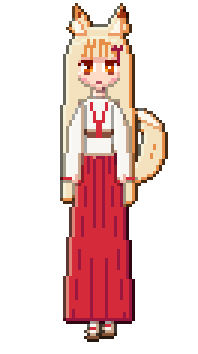
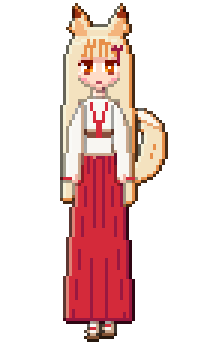
Kohaku's fox ears: dark tips on both ears, warm inner ears, bow on her hair
- Both fox ears get the same dark tip; the light used to leave the left
  tip almost hair-coloured
- The inner ear is a warm peach so the ears read against her pale hair
- In profile the bow at the back of her head sits on the hair instead of
  floating beside it
- Portraits of heroines with animal ears are framed a little higher so
  the ears show

Claude-Session: https://claude.ai/code/session_01G7wJVgNREwV81C7tq9bPH5

Changed region(s): [[0.5455, 0.0311, 0.6364, 0.1243], [0.3636, 0.0, 0.4545, 0.1243]]

diff --git a/index.html b/index.html
@@ -1055,7 +1055,7 @@ function renderGirl(L,p,o){
       else part(97,colC,x=>{x.beginPath();x.ellipse(hx+R*.05,hy-R*1.12,R*.22,R*.5,1.15,0,7);x.fill();for(let k=0;k<4;k++)ell(x,hx-R*.3+k*R*.2,hy-R*1.2-k*R*.04,R*.1,R*.1)},{band:1})}
     if(hw==='idol'){const st=(cx,cy,r)=>x=>{x.beginPath();for(let k=0;k<10;k++){const a=-Math.PI/2+k*Math.PI/5,rr=k%2?r*.45:r;k?x.lineTo(cx+Math.cos(a)*rr,cy+Math.sin(a)*rr):x.moveTo(cx+Math.cos(a)*rr,cy+Math.sin(a)*rr)}x.closePath();x.fill()};
       const cx=back?hx-R*.6:side?hx+R*.1:hx+R*.62;part(97,p.acc,st(cx,hy-R*.62,R*.34),{band:1});part(98,p.acc,st(cx+R*.36,hy-R*.2,R*.2),{band:1})}
-    if(hw==='miko'){if(back||side)part(97,p.rib,x=>{const c=side?hx-R*1.05:hx,y=side?hy+R*.4:hy+R*.9;x.beginPath();x.moveTo(c,y);x.lineTo(c-5,y-4);x.lineTo(c-5,y+4);x.closePath();x.moveTo(c,y);x.lineTo(c+5,y-4);x.lineTo(c+5,y+4);x.closePath();x.fill()},{band:1});
+    if(hw==='miko'){if(back||side)part(97,p.rib,x=>{const c=side?hx-R*.72:hx,y=side?hy+R*.5:hy+R*.9;x.beginPath();x.moveTo(c,y);x.lineTo(c-5,y-4);x.lineTo(c-5,y+4);x.closePath();x.moveTo(c,y);x.lineTo(c+5,y-4);x.lineTo(c+5,y+4);x.closePath();x.fill()},{band:1});
       if(!back)part(97,p.rib,x=>{const c=side?hx+R*.05:hx+R*.7,y=hy-R*.45;x.beginPath();x.moveTo(c,y);x.lineTo(c+4,y-3.4);x.lineTo(c+4,y+3.4);x.closePath();x.moveTo(c,y);x.lineTo(c-4,y-3.4);x.lineTo(c-4,y+3.4);x.closePath();x.fill();cap(x,[c,y],[c+1,y+9],.8,.8)},{band:1})}
     const orn=L.orn;if(orn&&!back){const c=side?hx+R*.1:hx+R*.72,y=hy-R*.55;
       if(orn==='raiko')part(97,p.rib,x=>{x.beginPath();x.moveTo(c+1,y-7);x.lineTo(c-3,y+1);x.lineTo(c,y+1);x.lineTo(c-2.4,y+7);x.lineTo(c+4.6,y-1.6);x.lineTo(c+1.4,y-1.6);x.lineTo(c+4,y-7);x.closePath();x.fill()},{band:1});
@@ -1084,8 +1084,9 @@ function renderGirl(L,p,o){
     const strands=front?[-.62,-.3,.02,.34,.66]:back?[-.8,-.4,0,.4,.8]:[-.5,-.1,.3];
     tint([hairId],x=>{x.lineWidth=Math.max(1/S,R*.05);for(const t of strands){x.beginPath();if(back){x.moveTo(hx+t*R*.5,hy-R*.6);x.quadraticCurveTo(hx+t*R*1.2,hy+R*.6,hx+t*R*1.05,hy+R*(hs==='hime'||hs==='long'?3.4:1))}
       else{x.moveTo(hx+t*R*.6,hy-R*.75);x.quadraticCurveTo(hx+t*R*.9,hy-R*.3,hx+t*R*.95,hy-R*.05)}x.stroke()}},-1);
-    if(L.ears){const fox=L.ears==='fox';part(85,fox?'#fbf3e6':'#ffb3c6',x=>earsPath(x,true),{band:1.2});
-      if(fox)tint([hairId],x=>{for(const s of(side?[1]:[-1,1])){const bx=side?hx-R*.15:hx+s*R*.62,tipX=side?bx-R*.18:bx+s*R*.28,tipY=hy-R*2.05;x.beginPath();x.moveTo(tipX,tipY);x.lineTo(tipX-R*.22,tipY+R*.4);x.lineTo(tipX+R*.22,tipY+R*.4);x.closePath();x.fill()}},-2)}}
+    // fox ears: a warm inner ear and dark tips, the same on both sides whatever the light
+    if(L.ears){const fox=L.ears==='fox';part(85,fox?'#f4b47c':'#ffb3c6',x=>earsPath(x,true),fox?{flat:true,tone:2}:{band:1.2});
+      if(fox)tint([hairId],x=>{for(const s of(side?[1]:[-1,1])){const bx=side?hx-R*.15:hx+s*R*.62,tipX=side?bx-R*.18:bx+s*R*.28,tipY=hy-R*2.05;x.beginPath();x.moveTo(tipX,tipY);x.lineTo(tipX-R*.22,tipY+R*.4);x.lineTo(tipX+R*.22,tipY+R*.4);x.closePath();x.fill()}},-3)}}
   headwear();
   // ---------- pixel cleanup ----------
   // a lone shade pixel inside a part takes the tone of the neighbours around it
@@ -1113,7 +1114,8 @@ const HROWS=[['front','idle',4],['front','idle',4,1],['front','walk',8],['front'
 const heroLook=h=>({...h.look,kind:'hero',orn:h.look.hs==='hime'?h.id:undefined}),heroGirlPal=h=>({...heroPal(h),out:h.outfit,glow:h.bolt});
 // portrait: the head drawn at a larger pixel size and shown at 3x; full: the sprite itself at 3x
 function heroPortrait(h){const c=renderGirl(heroLook(h),heroGirlPal(h),{view:'front',pose:'idle',S:POR_S}),p=document.createElement('canvas');p.width=p.height=126;const x=p.getContext('2d');x.imageSmoothingEnabled=false;
-  x.drawImage(c,Math.round(c.hx-21),Math.round(c.hy-20),42,42,0,0,126,126);return p}
+  // heroines with animal ears are framed a little higher so the ears show above the hair
+  x.drawImage(c,Math.round(c.hx-21),Math.round(c.hy-(h.look.ears?25:20)),42,42,0,0,126,126);return p}
 const heroFull=h=>upscale(renderGirl(heroLook(h),heroGirlPal(h),{view:'front',pose:'idle',S:HS_S}),3);
 const HSPR={};
 function himeSprite(h){if(HSPR[h.id])return HSPR[h.id];const look=heroLook(h),pal=heroGirlPal(h),cache={},img={};
